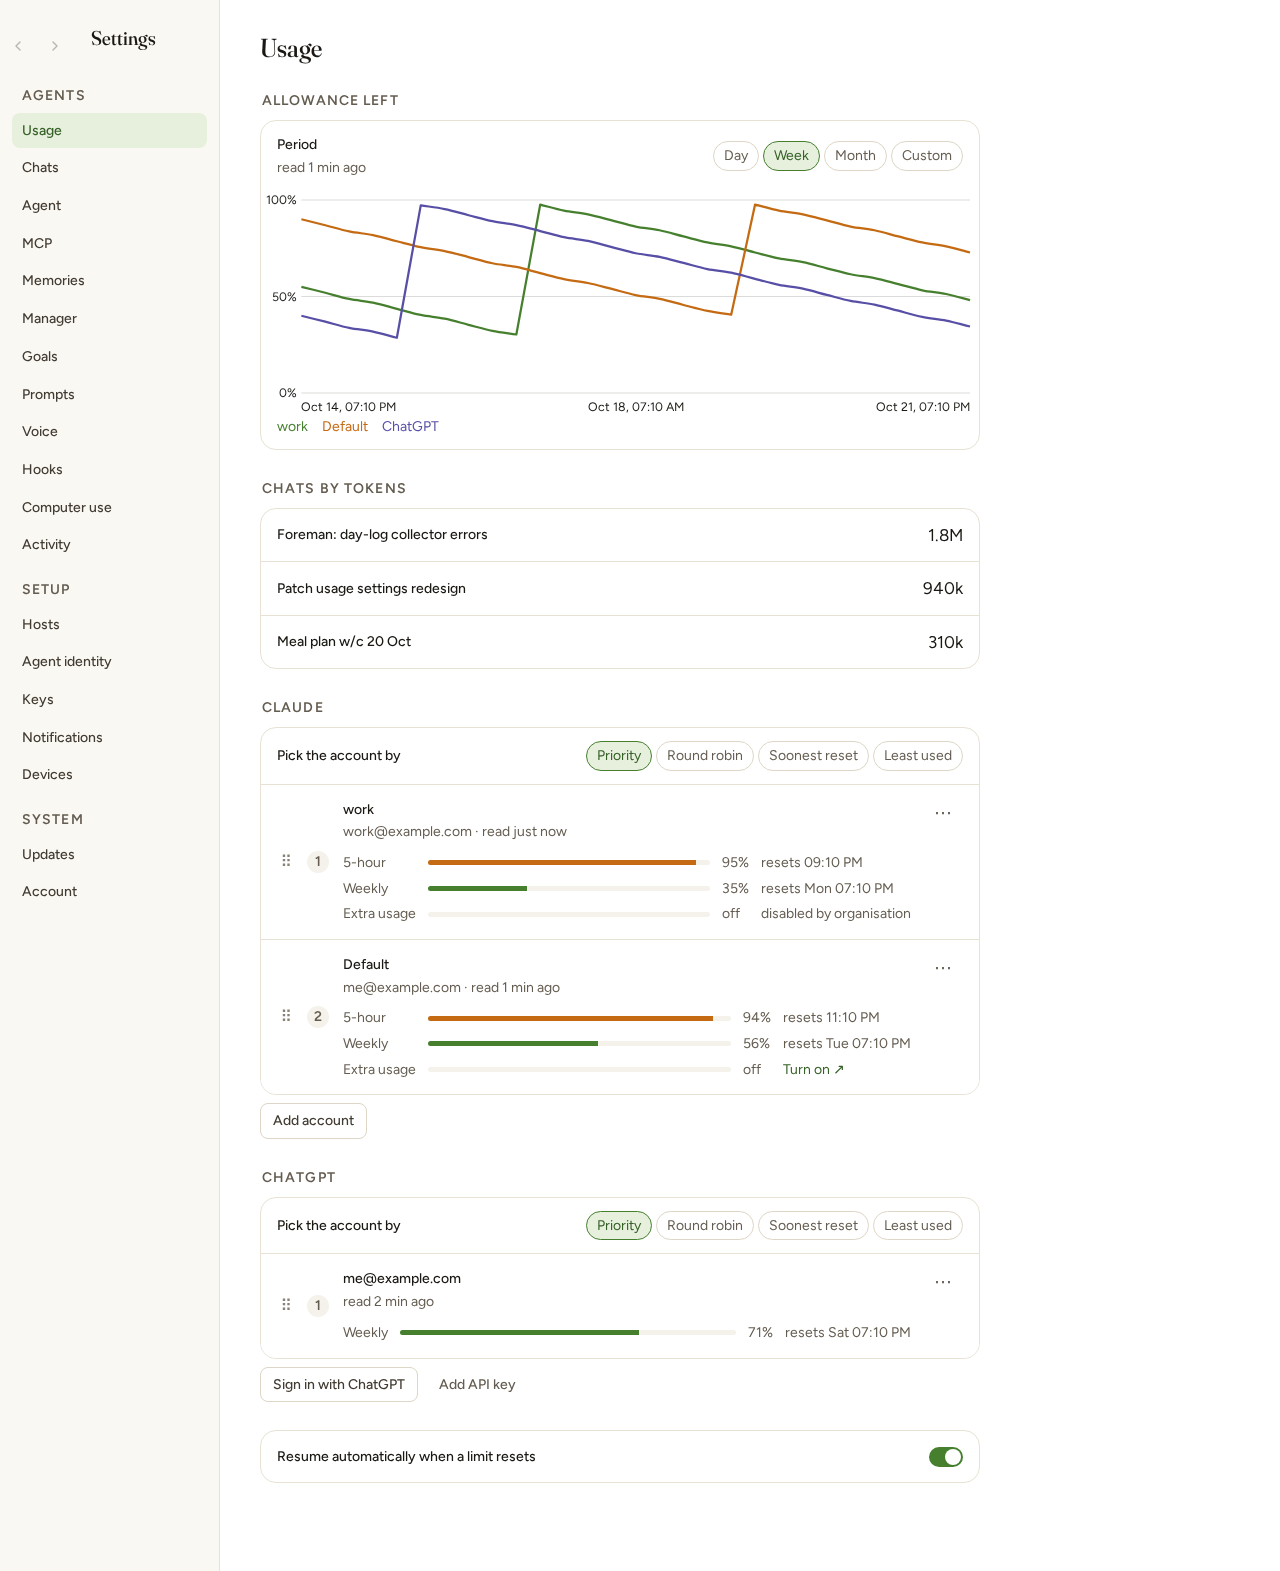
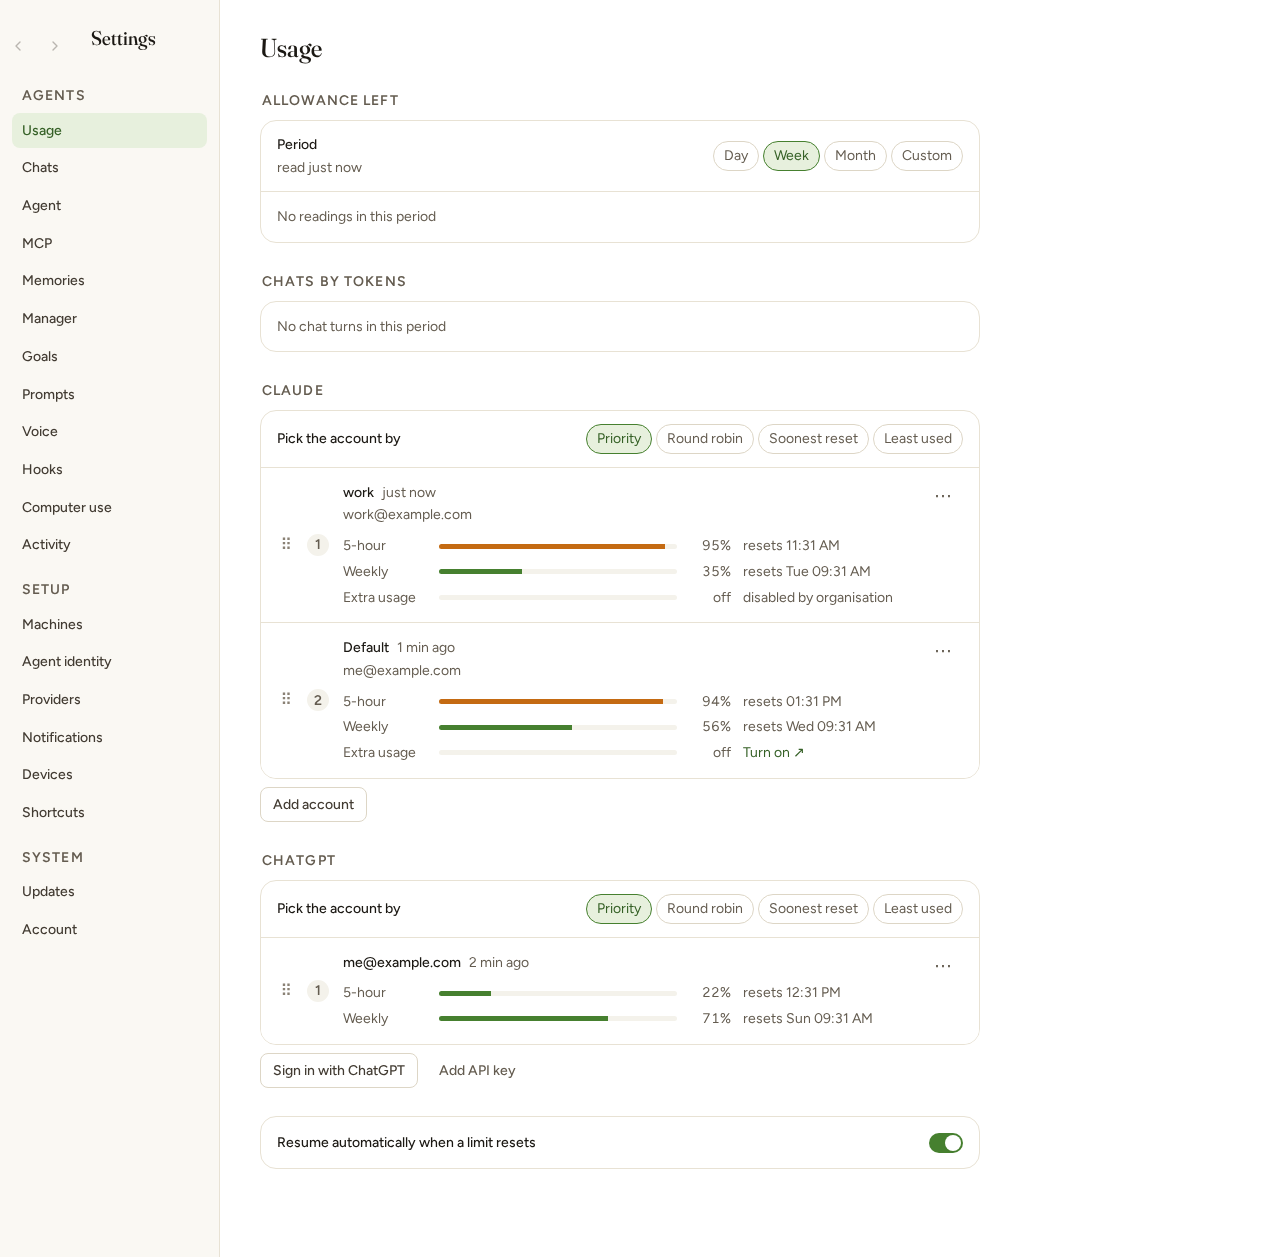
Usage: bars line up across accounts, reading age beside the name, ChatGPT 5-hour in the mockup
Every column of an account's usage bars but the bar itself is now a fixed
width, so the bars of every account on the page share one left and right
edge; before, each row's grid sized its last column to its own text and
"disabled by organisation" gave that account a shorter bar. A reason longer
than the column ellipsises with the full text on hover, and "blocked" moves
into that column so the percentage column stays narrow.

How old a reading is sits beside the account name on its title line as
"2 min ago", without the word "read" (Pad edit from Tom), for every account.

The mockup's ChatGPT account gains its 5-hour window: the host already
reports Codex's primary limit as the session window, only the mockup data
had left it out.

diff --git a/design/usage-settings/index.html b/design/usage-settings/index.html
@@ -72,8 +72,8 @@
           <div class="set-acct active">
             <span class="set-handle">⠿</span><span class="set-rank">1</span>
             <div class="set-acct-body">
-              <span class="set-row-title">work</span>
-              <span class="set-sub">tom@wpp.com · read just now</span>
+              <span class="set-row-title">work<span class="set-ago">just now</span></span>
+              <span class="set-sub">tom@wpp.com</span>
               <div class="set-bars">
                 <div class="set-bar-row warn"><span>5-hour</span><span class="set-bar"><i style="width:95%"></i></span><span class="set-bar-value">95%</span><span><span class="w">resets </span>15:00</span></div>
                 <div class="set-bar-row"><span>Weekly</span><span class="set-bar"><i style="width:35%"></i></span><span class="set-bar-value">35%</span><span><span class="w">resets </span>Tue 04:00</span></div>
@@ -85,8 +85,8 @@
           <div class="set-acct">
             <span class="set-handle">⠿</span><span class="set-rank">2</span>
             <div class="set-acct-body">
-              <span class="set-row-title">Default</span>
-              <span class="set-sub">tom.chambers@gmail.com · read just now</span>
+              <span class="set-row-title">Default<span class="set-ago">just now</span></span>
+              <span class="set-sub">tom.chambers@gmail.com</span>
               <div class="set-bars">
                 <div class="set-bar-row warn"><span>5-hour</span><span class="set-bar"><i style="width:94%"></i></span><span class="set-bar-value">94%</span><span><span class="w">resets </span>17:00</span></div>
                 <div class="set-bar-row"><span>Weekly</span><span class="set-bar"><i style="width:56%"></i></span><span class="set-bar-value">56%</span><span><span class="w">resets </span>Tue 20:00</span></div>
@@ -123,9 +123,9 @@
           <div class="set-acct active">
             <span class="set-handle">⠿</span><span class="set-rank">1</span>
             <div class="set-acct-body">
-              <span class="set-row-title">tom.chambers@gmail.com</span>
-              <span class="set-sub">read 2 min ago</span>
+              <span class="set-row-title">tom.chambers@gmail.com<span class="set-ago">2 min ago</span></span>
               <div class="set-bars">
+                <div class="set-bar-row"><span>5-hour</span><span class="set-bar"><i style="width:22%"></i></span><span class="set-bar-value">22%</span><span><span class="w">resets </span>18:40</span></div>
                 <div class="set-bar-row"><span>Weekly</span><span class="set-bar"><i style="width:71%"></i></span><span class="set-bar-value">71%</span><span><span class="w">resets </span>Tue 07:00</span></div>
               </div>
             </div>

diff --git a/design/usage-settings/style.css b/design/usage-settings/style.css
@@ -62,6 +62,7 @@ a{color:var(--accent-strong)}
 /* ranked accounts */
 .set-acct{display:grid;grid-template-columns:18px 24px minmax(0,1fr) auto;gap:12px;align-items:center;padding:14px 16px;background:var(--bg-elevated);position:relative}
 .set-acct-body{min-width:0;display:flex;flex-direction:column;gap:1px}
+.set-ago{color:var(--ink-3);font-weight:400;white-space:nowrap}
 .set-handle{cursor:grab;color:var(--ink-faint);font-size:16px;line-height:1;user-select:none;text-align:center}
 .set-rank{display:grid;place-items:center;width:22px;height:22px;border-radius:50%;background:var(--bg-soft);color:var(--ink-3);font-size:var(--text-min);font-weight:600}
 .set-acct.active .set-rank{background:var(--accent);color:var(--on-accent)}
@@ -79,7 +80,7 @@ a{color:var(--accent-strong)}
 .set-menu hr{border:0;border-top:1px solid var(--line-soft);margin:6px 0}
 
 /* usage bars: label column wide enough that "Extra usage" is one line */
-.set-bars{display:grid;grid-template-columns:88px minmax(60px,1fr) max-content minmax(96px,max-content);gap:4px 12px;align-items:center;margin-top:8px;color:var(--ink-3);font-size:var(--text-min)}
+.set-bars{display:grid;grid-template-columns:6em minmax(60px,1fr) 3em 12em;gap:4px 12px;align-items:center;margin-top:8px;color:var(--ink-3);font-size:var(--text-min)}
 .set-bar-row{display:contents}
 .set-bar{display:block;height:5px;border-radius:3px;background:var(--bg-soft);overflow:hidden}
 .set-bar i{display:block;height:100%;background:var(--accent)}
@@ -87,6 +88,7 @@ a{color:var(--accent-strong)}
 .set-bar-row.blocked .set-bar i{background:var(--danger)}
 .set-bar-row.off .set-bar i{background:var(--line)}
 .set-bar-value{text-align:right;font-variant-numeric:tabular-nums}
+.set-bar-row>:first-child,.set-bar-reset,.set-bar-row>:last-child{white-space:nowrap;overflow:hidden;text-overflow:ellipsis}
 
 /* allowance chart */
 .chart{padding:12px 16px 8px;border-top:1px solid var(--line-soft)}

diff --git a/packages/web/src/index.css b/packages/web/src/index.css
@@ -9253,6 +9253,12 @@ button.set-row-open:focus-visible {
   flex-direction: column;
   gap: 1px;
 }
+/* How old the account's reading is, after its name on the same line. */
+.set-ago {
+  color: var(--ink-3);
+  font-weight: 400;
+  white-space: nowrap;
+}
 .set-handle {
   all: unset;
   cursor: grab;
@@ -9338,18 +9344,30 @@ button.set-row-open:focus-visible {
   font-size: var(--text-min);
   line-height: 1.35;
 }
-/* Label column sized to its longest label ("Extra usage"), so no window's
-   name wraps onto two lines. */
+/* Every column but the bar is a FIXED width, so the bars of every account
+   on the page line up: each row's grid is its own, and a column sized to
+   its content ("disabled by organisation" against "Turn on") would give
+   each account a different bar length. The label column fits "Extra usage"
+   on one line; the reset column fits "resets Mon 07:10 PM", and a reason
+   longer than that ellipsises with the full text on hover. */
 .set-bars {
   display: grid;
-  grid-template-columns: max-content minmax(60px, 1fr) max-content max-content;
+  grid-template-columns: 6em minmax(60px, 1fr) 3em 12em;
   gap: 4px 12px;
   align-items: center;
   margin-top: 8px;
   color: var(--ink-3);
   font-size: var(--text-min);
 }
-.set-bar-label {
+.set-bar-label,
+.set-bar-reset {
+  white-space: nowrap;
+  overflow: hidden;
+  text-overflow: ellipsis;
+}
+.set-bar-value {
+  text-align: right;
+  font-variant-numeric: tabular-nums;
   white-space: nowrap;
 }
 .set-bar-reset a {
@@ -9632,7 +9650,7 @@ button.set-row-open:focus-visible {
      are dropped, as before, and the label column still fits "Extra usage"
      on one line. The phone app has its own Usage section. */
   .set-bars {
-    grid-template-columns: max-content minmax(40px, 1fr) max-content;
+    grid-template-columns: 6em minmax(40px, 1fr) 3em;
     gap: 4px 8px;
   }
   .set-bar-reset {

diff --git a/packages/web/src/routes/settings/accountList.tsx b/packages/web/src/routes/settings/accountList.tsx
@@ -305,15 +305,21 @@ export function UsageBars({
             <span className="set-bar" aria-hidden="true">
               <i style={{ width: `${Math.round((win.utilization ?? 0) * 100)}%` }} />
             </span>
-            <span className="set-bar-value">
-              {off ? 'off' : formatUtilization(win)}
-              {blocked ? ' · blocked' : ''}
-            </span>
-            <span className="set-bar-reset">
+            <span className="set-bar-value">{off ? 'off' : formatUtilization(win)}</span>
+            <span
+              className="set-bar-reset"
+              title={
+                win.disabledReason !== undefined
+                  ? describeDisabledReason(win.disabledReason)
+                  : undefined
+              }
+            >
               {win.disabledReason !== undefined ? (
                 <DisabledReason reason={win.disabledReason} extraUsageUrl={extraUsageUrl} />
               ) : win.resetsAt !== undefined ? (
-                `resets ${formatReset(win.resetsAt)}`
+                `${blocked ? 'blocked · ' : ''}resets ${formatReset(win.resetsAt)}`
+              ) : blocked ? (
+                'blocked'
               ) : (
                 ''
               )}
@@ -332,6 +338,13 @@ export function UsageBars({
  * not mean anyone switched anything off — the add-on was never taken out, so
  * the line says where to turn it on.
  */
+/** The reason as plain words, for the hover title when the column clips it. */
+function describeDisabledReason(reason: string): string {
+  if (reason === OVERAGE_DISABLED_REASON) return 'Extra usage is off: turn it on at claude.ai';
+  if (reason === OVERAGE_ORG_DISABLED_REASON) return 'Extra usage disabled by organisation';
+  return reason;
+}
+
 function DisabledReason({
   reason,
   extraUsageUrl,

diff --git a/packages/web/src/routes/settings/SharedAccounts.tsx b/packages/web/src/routes/settings/SharedAccounts.tsx
@@ -15,7 +15,7 @@ import { getActiveWs } from '../../api/ws.js';
 import { usePreferencesStore } from '../../stores/preferencesStore.js';
 import { usePresenceStore } from '../../stores/presenceStore.js';
 import { useUiStore } from '../../stores/uiStore.js';
-import { formatReadAt } from '../../lib/usage.js';
+import { formatAgo } from '../../lib/usage.js';
 import { sortHosts } from './hostScope.js';
 import { sendToHost } from './hostWrite.js';
 import { writeShared } from './sharedWrite.js';
@@ -124,12 +124,13 @@ function AccountEntry({
     row.organizationId === undefined
       ? undefined
       : rows.find((r) => r.id !== row.id && r.organizationId === row.organizationId);
-  const readAt = formatReadAt(reading?.usage?.at);
+  // When the reading was taken sits beside the name, where the eye lands
+  // first; the sub-line is what the account IS (its email, its kind).
+  const ago = formatAgo(reading?.usage?.at);
   const sub = [
     row.email ?? null,
     row.connected ? null : 'Signed out',
     row.kind === 'apiKey' ? 'API key' : null,
-    readAt,
   ].filter((x): x is string => x !== null);
 
   const pasteToken = (title: string, verb: string): void =>
@@ -230,7 +231,14 @@ function AccountEntry({
       menuTestid={`account-menu-${id}`}
       menu={menu}
     >
-      <span className="set-row-title">{row.label}</span>
+      <span className="set-row-title">
+        {row.label}
+        {ago ? (
+          <span className="set-ago" data-testid={`account-read-${id}`}>
+            {ago}
+          </span>
+        ) : null}
+      </span>
       {sub.length > 0 ? <span className="set-sub">{sub.join(' · ')}</span> : null}
       {twin ? (
         <span className="set-sub warn" data-testid={`account-twin-${id}`}>

diff --git a/packages/web/src/lib/usage.ts b/packages/web/src/lib/usage.ts
@@ -254,15 +254,21 @@ export function summariseUsage(
   };
 }
 
-/** `read 2 min ago` — so a stale figure cannot pass for a live one. */
-export function formatReadAt(at: number | undefined, now: number = Date.now()): string | null {
+/** `2 min ago` — how old a reading is, beside the thing it is a reading of. */
+export function formatAgo(at: number | undefined, now: number = Date.now()): string | null {
   if (at === undefined || at === 0) return null;
   const min = Math.floor((now - at) / 60_000);
-  if (min < 1) return 'read just now';
-  if (min < 60) return `read ${min} min ago`;
+  if (min < 1) return 'just now';
+  if (min < 60) return `${min} min ago`;
   const h = Math.floor(min / 60);
-  if (h < 24) return `read ${h} h ago`;
-  return `read ${Math.floor(h / 24)} d ago`;
+  if (h < 24) return `${h} h ago`;
+  return `${Math.floor(h / 24)} d ago`;
+}
+
+/** `read 2 min ago` — the same, where the line needs to say it is a reading. */
+export function formatReadAt(at: number | undefined, now: number = Date.now()): string | null {
+  const ago = formatAgo(at, now);
+  return ago === null ? null : `read ${ago}`;
 }
 
 /**

diff --git a/packages/web/e2e/settings-usage.spec.ts b/packages/web/e2e/settings-usage.spec.ts
@@ -135,9 +135,9 @@ test.describe('settings — Claude usage (session/week/reset)', () => {
       /blocked/i,
     );
     await expect(overage).not.toContainText(/blocked/i);
-    // And the reading says how old it is, so a stale figure cannot pass for
-    // live — without naming the machine that took it.
-    await expect(page.getByTestId('account-claude-code-a1')).toContainText(/read /i);
+    // And the reading says how old it is beside the name, so a stale figure
+    // cannot pass for live — without naming the machine that took it.
+    await expect(page.getByTestId('account-read-claude-code-a1')).toContainText(/just now|ago/);
     await expect(page.getByTestId('account-claude-code-a1')).not.toContainText(/dev-host/);
   });
 

diff --git a/packages/web/src/__tests__/SettingsUsage.test.tsx b/packages/web/src/__tests__/SettingsUsage.test.tsx
@@ -98,6 +98,10 @@ describe('Settings → Usage → accounts', () => {
     expect(screen.getByTestId('account-usage-session-claude-code-acct-a')).toHaveTextContent('70%');
     expect(screen.getByTestId('account-claude-code-acct-a')).not.toHaveTextContent(/on mac/);
     expect(screen.getByTestId('account-claude-code-acct-a')).not.toHaveTextContent(/hetzner/);
+    // How old the reading is sits beside the name, not in the sub-line.
+    const read = screen.getByTestId('account-read-claude-code-acct-a');
+    expect(read.closest('.set-row-title')).not.toBeNull();
+    expect(read).not.toHaveTextContent(/read/);
   });
 
   it('puts the extra-usage reason on its own line, linked to where it is turned on', () => {

diff --git a/packages/web/src/__tests__/usage.test.ts b/packages/web/src/__tests__/usage.test.ts
@@ -15,6 +15,7 @@ import {
   hostOutage,
   listLabels,
   formatDurationWords,
+  formatAgo,
   formatReadAt,
   formatReset,
   formatResetDetail,
@@ -269,6 +270,15 @@ describe('summariseUsage', () => {
     expect(out?.title).toContain('Weekly 28%');
     expect(out?.title).not.toContain('allowed');
     expect(out?.title).not.toContain('UTC ·');
+  });
+});
+
+describe('formatAgo', () => {
+  it('is the reading age alone, for beside a name', () => {
+    expect(formatAgo(AT - 30_000, AT)).toBe('just now');
+    expect(formatAgo(AT - 5 * 60_000, AT)).toBe('5 min ago');
+    expect(formatAgo(AT - 2 * 86_400_000, AT)).toBe('2 d ago');
+    expect(formatAgo(undefined, AT)).toBeNull();
   });
 });
 
